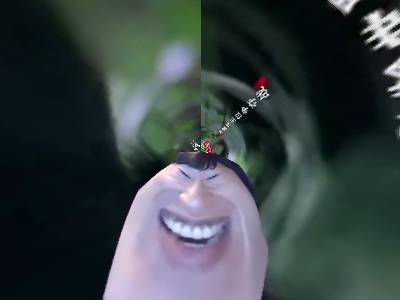
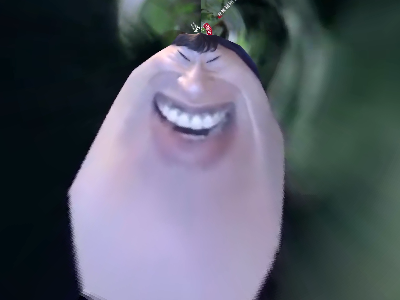
Docs | update README

diff --git a/README.md b/README.md
@@ -43,7 +43,7 @@
 
 ## 目录
 
-- [:wheelchair::wheelchair::wheelchair: Stereographic Projection of Otto :wheelchair::wheelchair::wheelchair](#wheelchairwheelchairwheelchair-stereographic-projection-of-otto-wheelchairwheelchairwheelchair)
+- [:wheelchair::wheelchair::wheelchair: Stereographic Projection of Otto :wheelchair::wheelchair::wheelchair:](#wheelchairwheelchairwheelchair-stereographic-projection-of-otto-wheelchairwheelchairwheelchair)
   - [目录](#目录)
   - [前言](#前言)
   - [“说的道理”与“栗子头”的诞生](#说的道理与栗子头的诞生)
@@ -56,7 +56,7 @@
     - [计算坐标系旋转后的坐标](#计算坐标系旋转后的坐标)
     - [计算对应原始图像的点的坐标](#计算对应原始图像的点的坐标)
   - [程序实现](#程序实现)
-  - [运行结果](#运行结果)
+  - [测试用例](#测试用例)
     - [:laughing:说的道理](#laughing说的道理)
     - [:chestnut:栗子头](#chestnut栗子头)
   - [使用说明](#使用说明)
@@ -64,6 +64,7 @@
     - [配置 Python 环境](#配置-python-环境)
     - [安装依赖库](#安装依赖库)
     - [运行](#运行)
+    - [参数说明](#参数说明)
   - [使用许可](#使用许可)
 
 ## 前言
@@ -404,7 +405,7 @@ $$
 
 [main.py](./main.py)
 
-## 运行结果
+## 测试用例
 
 ### :laughing:说的道理
 
@@ -412,8 +413,9 @@ $$
 
 - 原始图像：[otto.png](./otto.png)
 - 图像尺寸：400 * 300
+- 垂直方向偏移量：0.4
 - 缩放倍数：1.5
-- 旋转角度： $\alpha = \beta = \gamma = 0 \degree$
+- 旋转角度： $\alpha = \gamma = 0 \degree$， $\beta = -5 \degree$
 
 ![说的道理](./README.assets/principle.png)
 
@@ -423,6 +425,7 @@ $$
 
 - 原始图像：[otto.png](./otto.png)
 - 图像尺寸：400 * 300
+- 垂直方向偏移量：-0.4
 - 缩放倍数：1
 - 旋转角度： $\alpha = \gamma = 0 \degree$， $\beta = 155 \degree$
 
@@ -449,15 +452,58 @@ pip install numpy
 
 ### 运行
 
-编辑 ```main.py``` 文件，按需修改开头部分的相关参数，包括：
-
-- 原始图像路径
-- 投影图像输出路径
-- 投影图像尺寸
-- 缩放倍数
-- 坐标轴旋转角度
+编辑 ```main.py``` 文件，按需修改开头部分的相关参数。
 
 参数调整完成后，编译运行，在所设定的输出路径下找到生成的投影图像。
+
+### 参数说明
+
+**1. 路径（相对、绝对路径均可）**
+
+```path_img```：原始图像
+
+```path_proj```：输出的投影图像
+
+**2. 输出的投影图像尺寸（像素）**
+
+```w_proj```：宽
+
+```h_proj```：高
+
+**3. 偏移量（百分比）**
+
+```offset_hor```：水平方向（向右为正）
+
+```offset_ver```：垂直方向（向下为正）
+
+输出的投影图像相当于在整个投影平面下取了一个矩形区域，以上两个参数就是调整该矩形在投影平面的位置。
+
+均为 0 时，输出的图像中心与坐标轴原点重合；例如当两个偏移量均为 $\frac{1}{4}$ 时，投影图像范围变换如下图白框所示：
+
+<div align=center>
+
+![offset](./README.assets/offset.gif)
+
+</div>
+
+**4. 缩放倍数**
+
+```scale```：缩放倍数
+
+这里的缩放倍数实际是调整球的半径，在前面的数学推导中可以看到，对于相同尺寸的投影区域，球的半径越大，输出图像中包含的内容越少，相当于放大了图像；相反地，球的半径越小，则相当于缩小了图像。
+
+**5. 旋转角度（度）**
+
+```alpha```：绕 $x$ 轴旋转
+
+```beta```：绕 $y$ 轴旋转
+
+```gamma```：绕 $z$ 轴旋转
+
+是通过坐标系的旋转等效为球上贴图的旋转来实现的，从而得到 $otto$ 的不同形态。
+
+坐标系的旋转除我在前文的推导外，也可以参考 “欧拉角-四元数的转换” ，不再赘述。
+
 
 ## 使用许可
 
